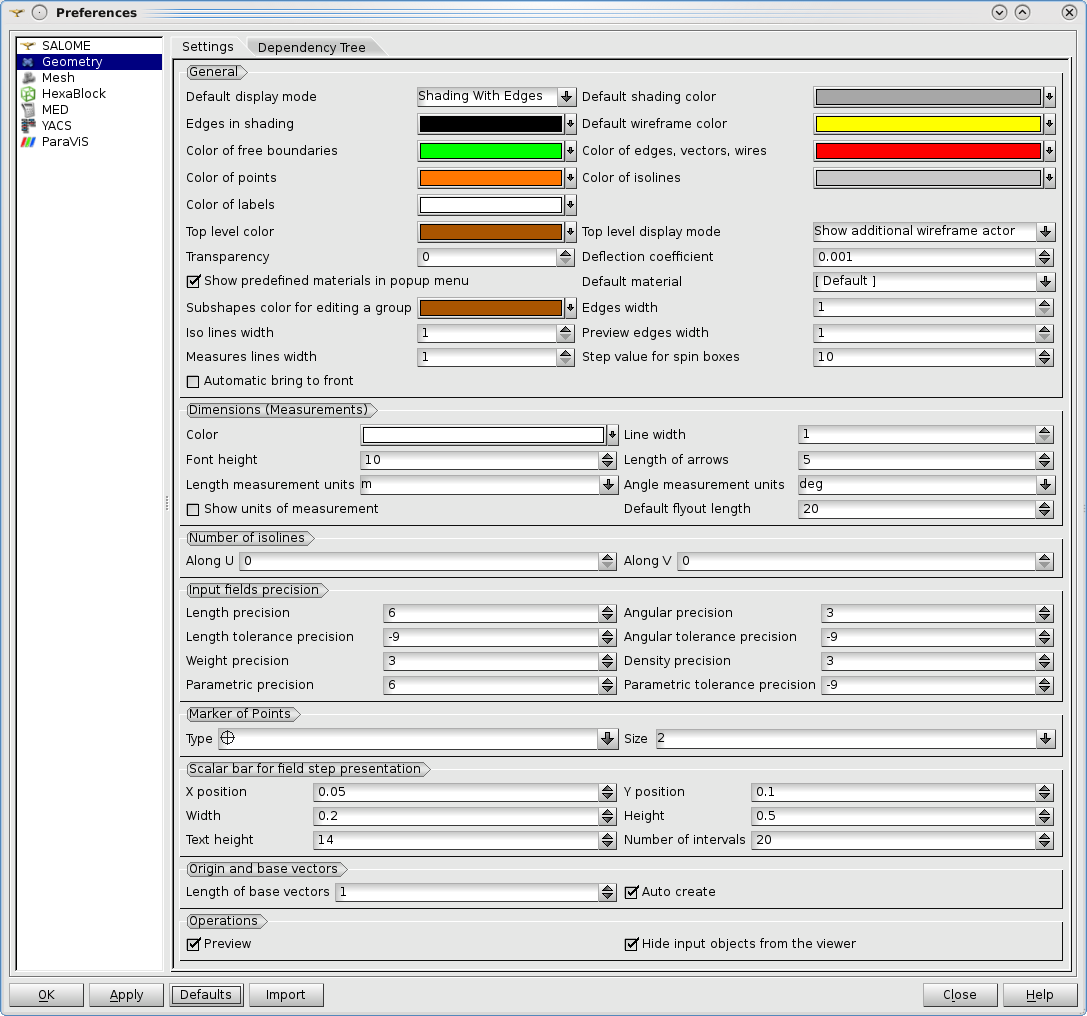
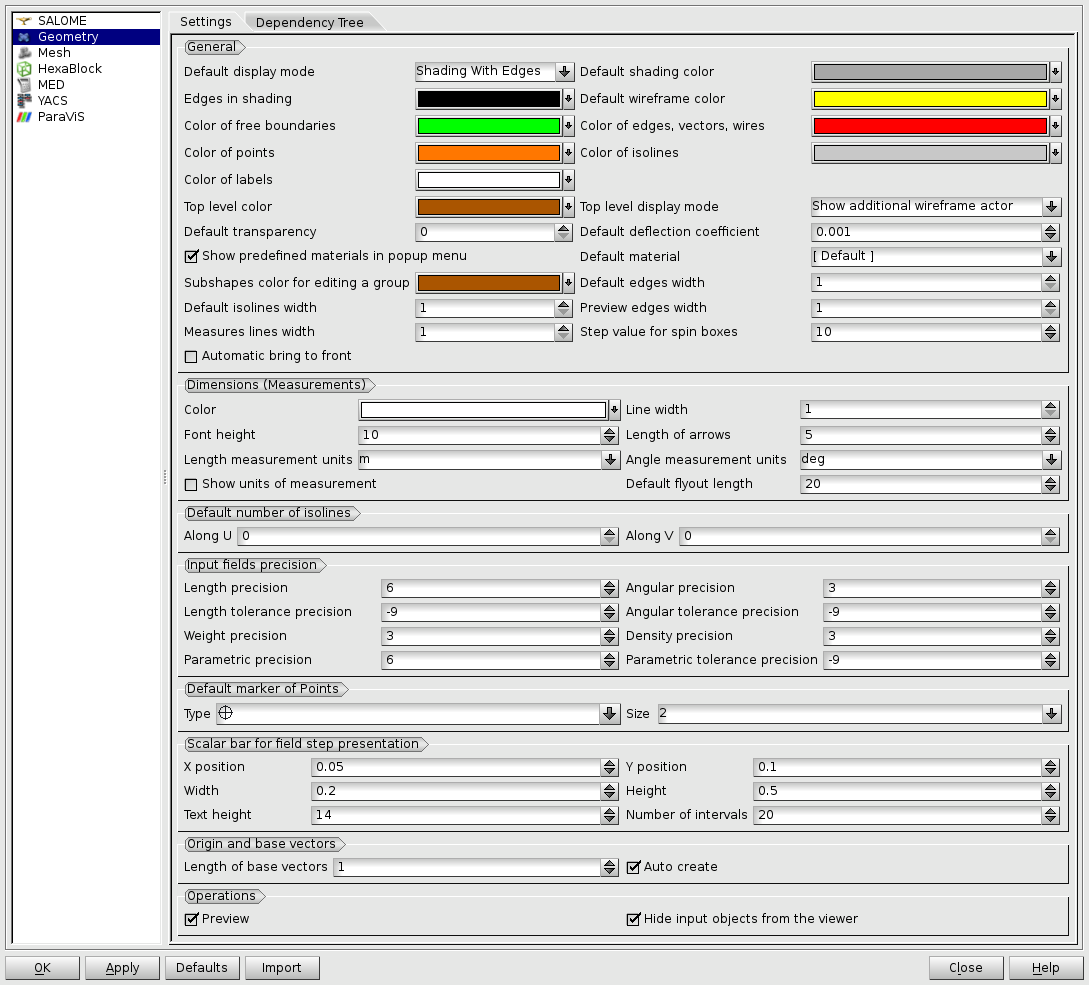
documentation improvement

diff --git a/src/GEOMGUI/GEOM_msg_fr.ts b/src/GEOMGUI/GEOM_msg_fr.ts
@@ -3210,7 +3210,7 @@ Choisissez une face, une coque ou un solide et essayez de nouveau</translation>
     </message>
     <message>
         <source>PREF_DEFLECTION</source>
-        <translation>Coefficient de déformation</translation>
+        <translation>Coefficient de déformation par défaut</translation>
     </message>
     <message>
         <source>GEOM_PREF_def_precision</source>
@@ -3258,7 +3258,7 @@ Choisissez une face, une coque ou un solide et essayez de nouveau</translation>
     </message>
     <message>
         <source>PREF_TRANSPARENCY</source>
-        <translation>Transparence</translation>
+        <translation>Transparence par défaut</translation>
     </message>
     <message>
         <source>PREF_FREE_BOUND_COLOR</source>
@@ -3282,7 +3282,7 @@ Choisissez une face, une coque ou un solide et essayez de nouveau</translation>
     </message>
     <message>
         <source>PREF_GROUP_VERTEX</source>
-        <translation>Marqueurs de points</translation>
+        <translation>Marqueurs de points par défaut</translation>
     </message>
     <message>
         <source>PREF_ISOS_COLOR</source>
@@ -3362,11 +3362,11 @@ Choisissez une face, une coque ou un solide et essayez de nouveau</translation>
     </message>
     <message>
         <source>PREF_EDGE_WIDTH</source>
-        <translation>Epaisseur des arêtes</translation>
+        <translation>Epaisseur des arêtes par défaut</translation>
     </message>
     <message>
         <source>PREF_ISOLINES_WIDTH</source>
-        <translation>Epaisseur des isolignes</translation>
+        <translation>Epaisseur des isolignes par défaut</translation>
     </message>
     <message>
         <source>PREF_PREVIEW_EDGE_WIDTH</source>
@@ -3422,7 +3422,7 @@ Choisissez une face, une coque ou un solide et essayez de nouveau</translation>
     </message>
     <message>
         <source>PREF_ISOS</source>
-        <translation>Nombre d&apos;isolignes</translation>
+        <translation>Nombre d&apos;isolignes par défaut</translation>
     </message>
     <message>
         <source>PREF_ISOS_U</source>

diff --git a/src/GEOMGUI/GEOM_msg_en.ts b/src/GEOMGUI/GEOM_msg_en.ts
@@ -3262,7 +3262,7 @@ Please, select face, shell or solid and try again</translation>
     </message>
     <message>
         <source>PREF_DEFLECTION</source>
-        <translation>Deflection coefficient</translation>
+        <translation>Default deflection coefficient</translation>
     </message>
     <message>
         <source>GEOM_PREF_def_precision</source>
@@ -3310,7 +3310,7 @@ Please, select face, shell or solid and try again</translation>
     </message>
     <message>
         <source>PREF_TRANSPARENCY</source>
-        <translation>Transparency</translation>
+        <translation>Default transparency</translation>
     </message>
     <message>
         <source>PREF_FREE_BOUND_COLOR</source>
@@ -3334,7 +3334,7 @@ Please, select face, shell or solid and try again</translation>
     </message>
     <message>
         <source>PREF_GROUP_VERTEX</source>
-        <translation>Marker of Points</translation>
+        <translation>Default marker of points</translation>
     </message>
     <message>
         <source>PREF_ISOS_COLOR</source>
@@ -3414,11 +3414,11 @@ Please, select face, shell or solid and try again</translation>
     </message>
     <message>
         <source>PREF_EDGE_WIDTH</source>
-        <translation>Edges width</translation>
+        <translation>Default edges width</translation>
     </message>
     <message>
         <source>PREF_ISOLINES_WIDTH</source>
-        <translation>Iso lines width</translation>
+        <translation>Default isolines width</translation>
     </message>
     <message>
         <source>PREF_PREVIEW_EDGE_WIDTH</source>
@@ -3474,7 +3474,7 @@ Please, select face, shell or solid and try again</translation>
     </message>
     <message>
         <source>PREF_ISOS</source>
-        <translation>Number of isolines</translation>
+        <translation>Default number of isolines</translation>
     </message>
     <message>
         <source>PREF_ISOS_U</source>

diff --git a/src/GEOMGUI/GEOM_msg_ja.ts b/src/GEOMGUI/GEOM_msg_ja.ts
@@ -3153,7 +3153,7 @@
     </message>
     <message>
       <source>PREF_DEFLECTION</source>
-      <translation>変形倍率</translation>
+      <translation>既定の変形倍率</translation>
     </message>
     <message>
       <source>GEOM_PREF_def_precision</source>
@@ -3201,7 +3201,7 @@
     </message>
     <message>
       <source>PREF_TRANSPARENCY</source>
-      <translation>透明度</translation>
+      <translation>既定の透明度</translation>
     </message>
     <message>
       <source>PREF_FREE_BOUND_COLOR</source>
@@ -3225,7 +3225,7 @@
     </message>
     <message>
       <source>PREF_GROUP_VERTEX</source>
-      <translation>ポイントのマーカー</translation>
+      <translation>既定のポイントのマーカー</translation>
     </message>
     <message>
       <source>PREF_ISOS_COLOR</source>
@@ -3305,11 +3305,11 @@
     </message>
     <message>
       <source>PREF_EDGE_WIDTH</source>
-      <translation>エッジの厚さ</translation>
+      <translation>既定のエッジの厚さ</translation>
     </message>
     <message>
       <source>PREF_ISOLINES_WIDTH</source>
-      <translation>輪郭の太さ</translation>
+      <translation>既定の輪郭の太さ</translation>
     </message>
     <message>
       <source>PREF_PREVIEW_EDGE_WIDTH</source>
@@ -3365,7 +3365,7 @@
     </message>
     <message>
       <source>PREF_ISOS</source>
-      <translation>輪郭の数</translation>
+      <translation>既定の輪郭の数</translation>
     </message>
     <message>
       <source>PREF_ISOS_U</source>
